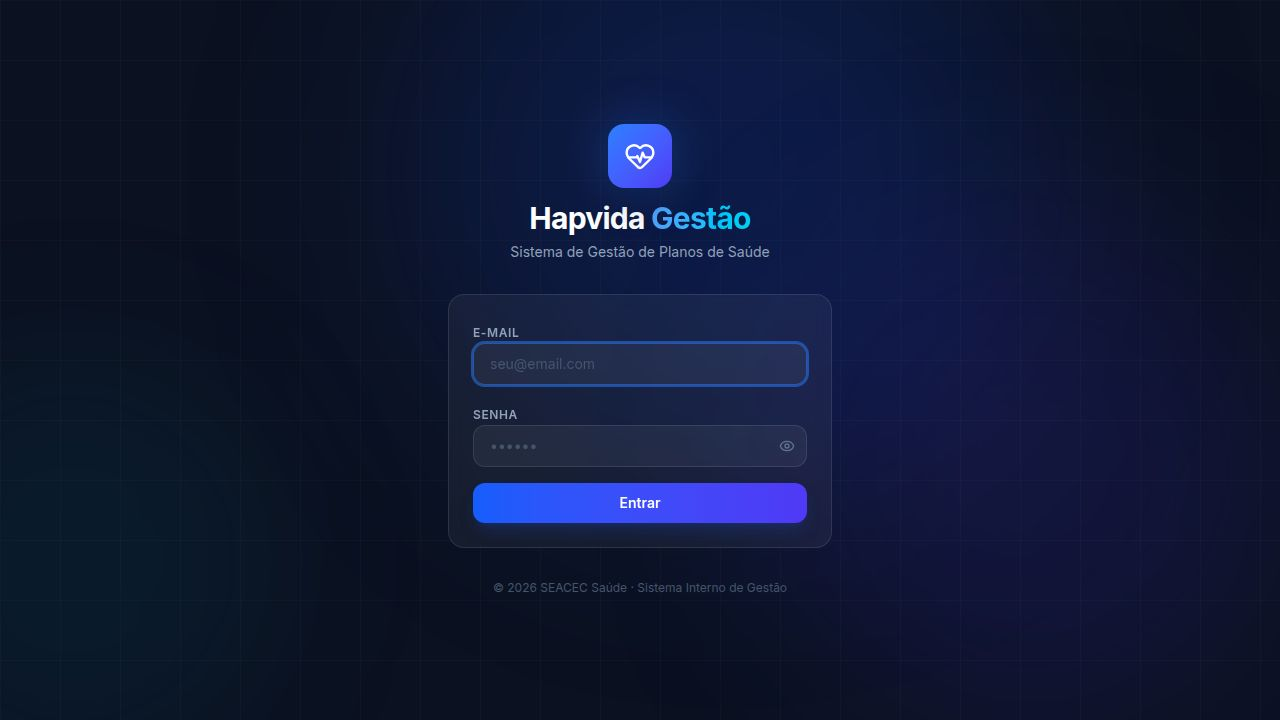
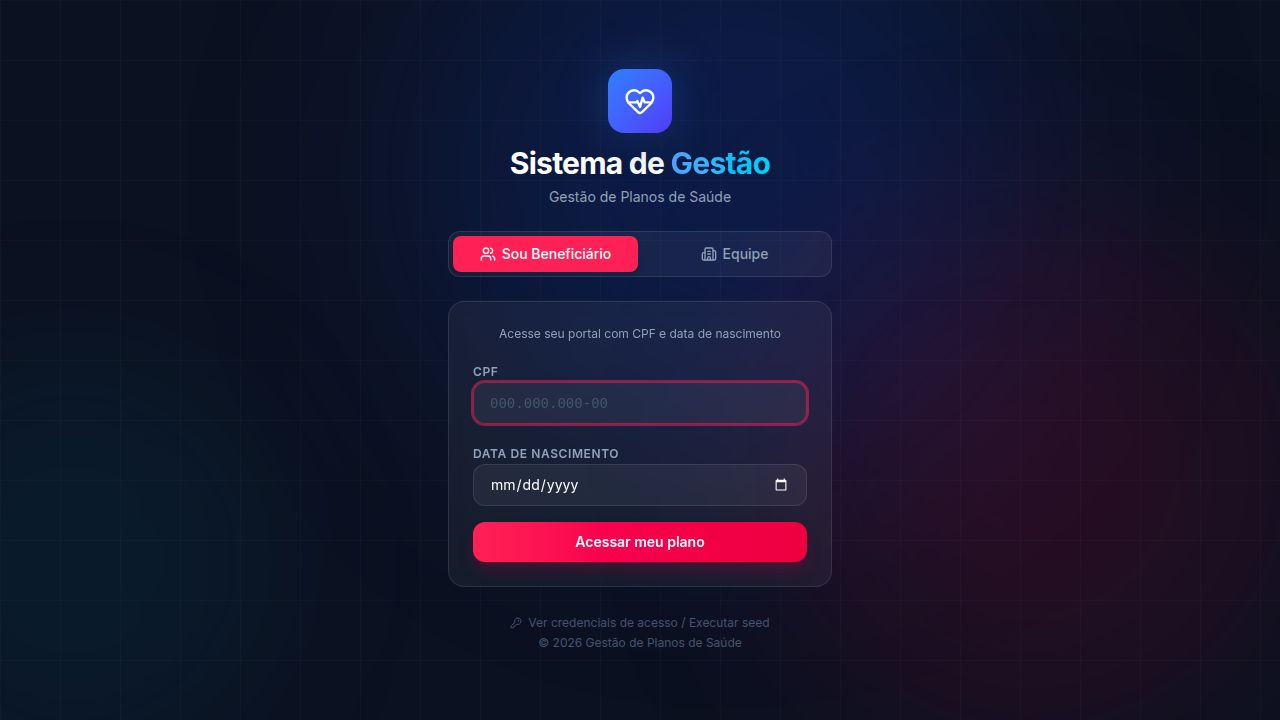
Improve AI functionality by lazily initializing the OpenAI client
The OpenAI client initialization in `artifacts/api-server/src/routes/ai.ts` is changed from eager to lazy loading to prevent server startup failures when the API key is not present. The model is also updated to "gpt-4o-mini".

Replit-Commit-Author: Agent
Replit-Commit-Session-Id: e8acff12-fc42-4884-b126-1d19201a36d9
Replit-Commit-Checkpoint-Type: full_checkpoint
Replit-Commit-Event-Id: 5e6cbb25-8e89-4925-9ed8-d9a497178c8b
Replit-Commit-Screenshot-Url: https://storage.googleapis.com/screenshot-production-us-central1/b786fbb4-b509-443f-ba9b-a4434054c637/e8acff12-fc42-4884-b126-1d19201a36d9/TpTXTLH
Replit-Helium-Checkpoint-Created: true

Changed region(s): [[0.3438, 0.4583, 0.6562, 0.825], [0.3438, 0.0917, 0.625, 0.3972], [0.4062, 0.8556, 0.5938, 0.9167]]

diff --git a/artifacts/api-server/src/routes/ai.ts b/artifacts/api-server/src/routes/ai.ts
@@ -1,26 +1,39 @@
 import { Router } from "express";
-import OpenAI from "openai";
 import { requireAuth } from "../middlewares/auth.js";
 
 const router = Router();
 router.use(requireAuth);
 
-const openai = new OpenAI({
-  baseURL: process.env.AI_INTEGRATIONS_OPENAI_BASE_URL,
-  apiKey: process.env.AI_INTEGRATIONS_OPENAI_API_KEY,
-});
+function getOpenAI() {
+  const baseURL = process.env.AI_INTEGRATIONS_OPENAI_BASE_URL;
+  const apiKey = process.env.AI_INTEGRATIONS_OPENAI_API_KEY ?? process.env.OPENAI_API_KEY;
+  if (!apiKey) return null;
+  const { default: OpenAI } = require("openai");
+  return new OpenAI({ baseURL, apiKey });
+}
 
 // POST /api/ai/parse-cliente
 // Recebe texto livre com dados do cliente e retorna estrutura JSON para preencher o formulário
 router.post("/ai/parse-cliente", async (req, res) => {
   try {
+    const openaiModule = await import("openai");
+    const OpenAI = openaiModule.default;
+    const baseURL = process.env.AI_INTEGRATIONS_OPENAI_BASE_URL;
+    const apiKey = process.env.AI_INTEGRATIONS_OPENAI_API_KEY ?? process.env.OPENAI_API_KEY;
+
+    if (!apiKey) {
+      return res.status(503).json({ error: "Funcionalidade de IA não configurada" });
+    }
+
+    const openai = new OpenAI({ baseURL, apiKey });
+
     const { texto } = req.body as { texto: string };
     if (!texto || texto.trim().length < 5) {
       return res.status(400).json({ error: "Texto muito curto para análise" });
     }
 
     const completion = await openai.chat.completions.create({
-      model: "gpt-5-mini",
+      model: "gpt-4o-mini",
       max_completion_tokens: 512,
       messages: [
         {